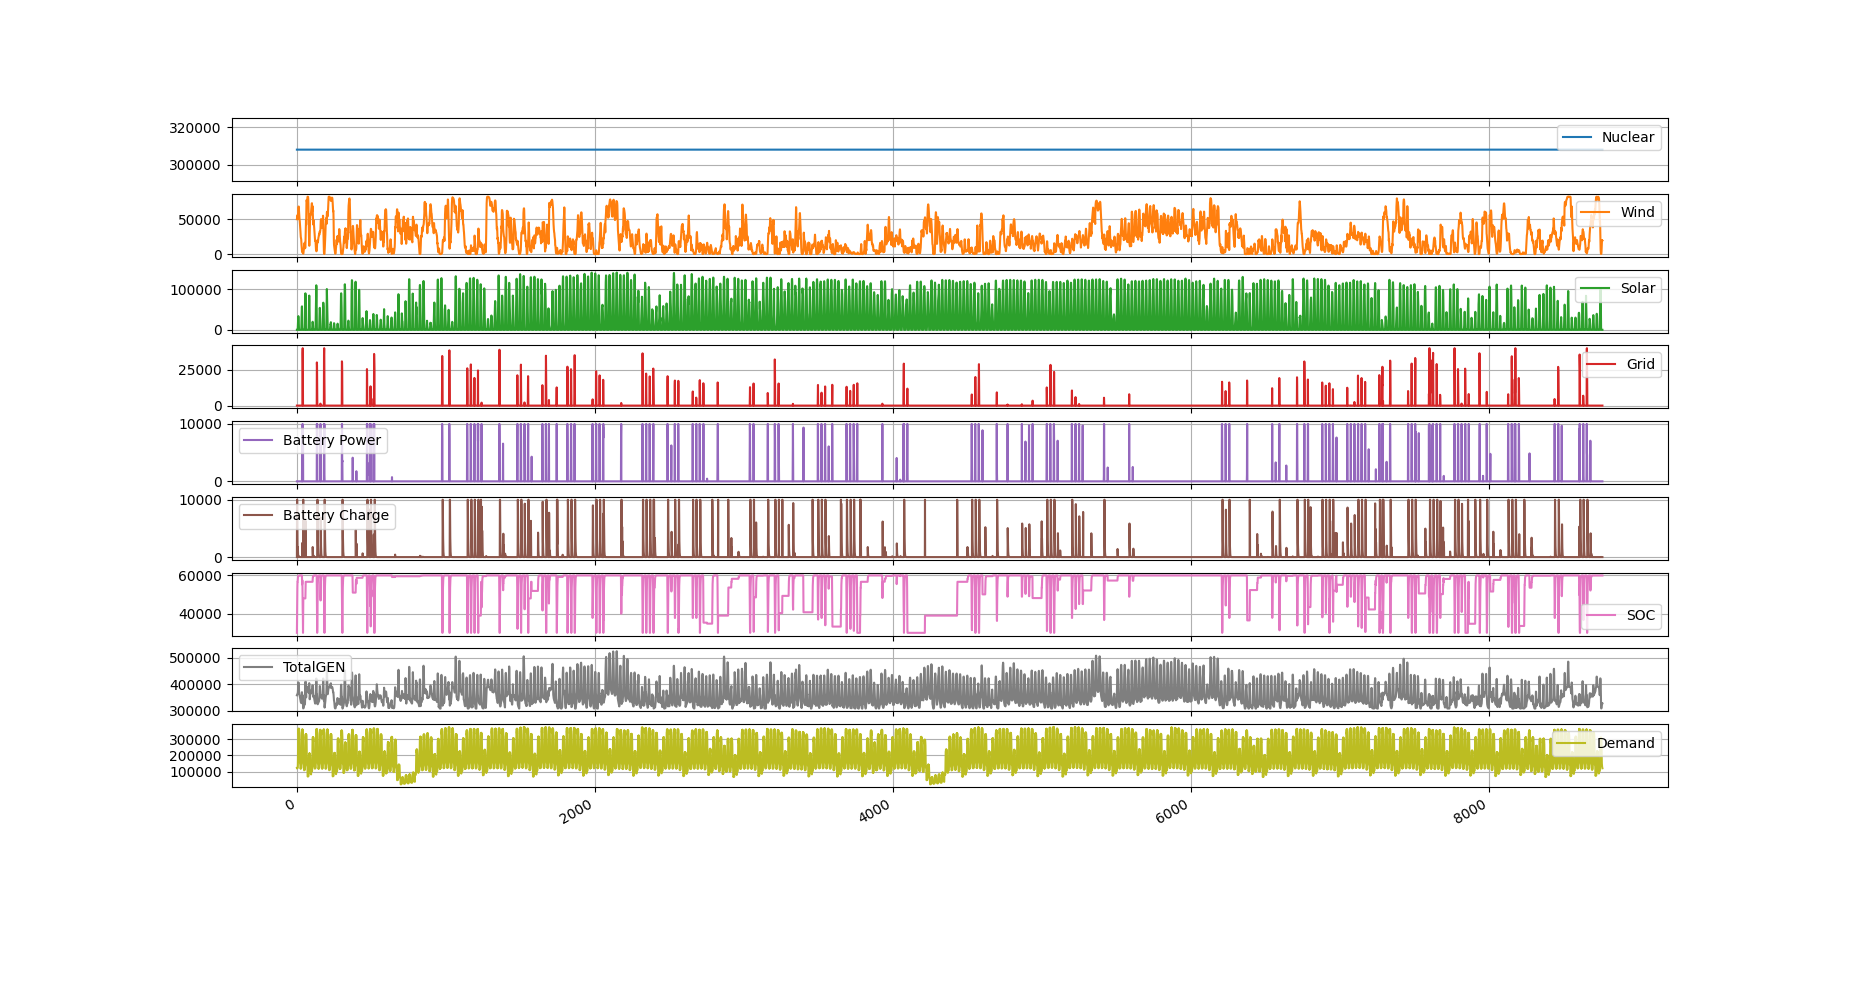
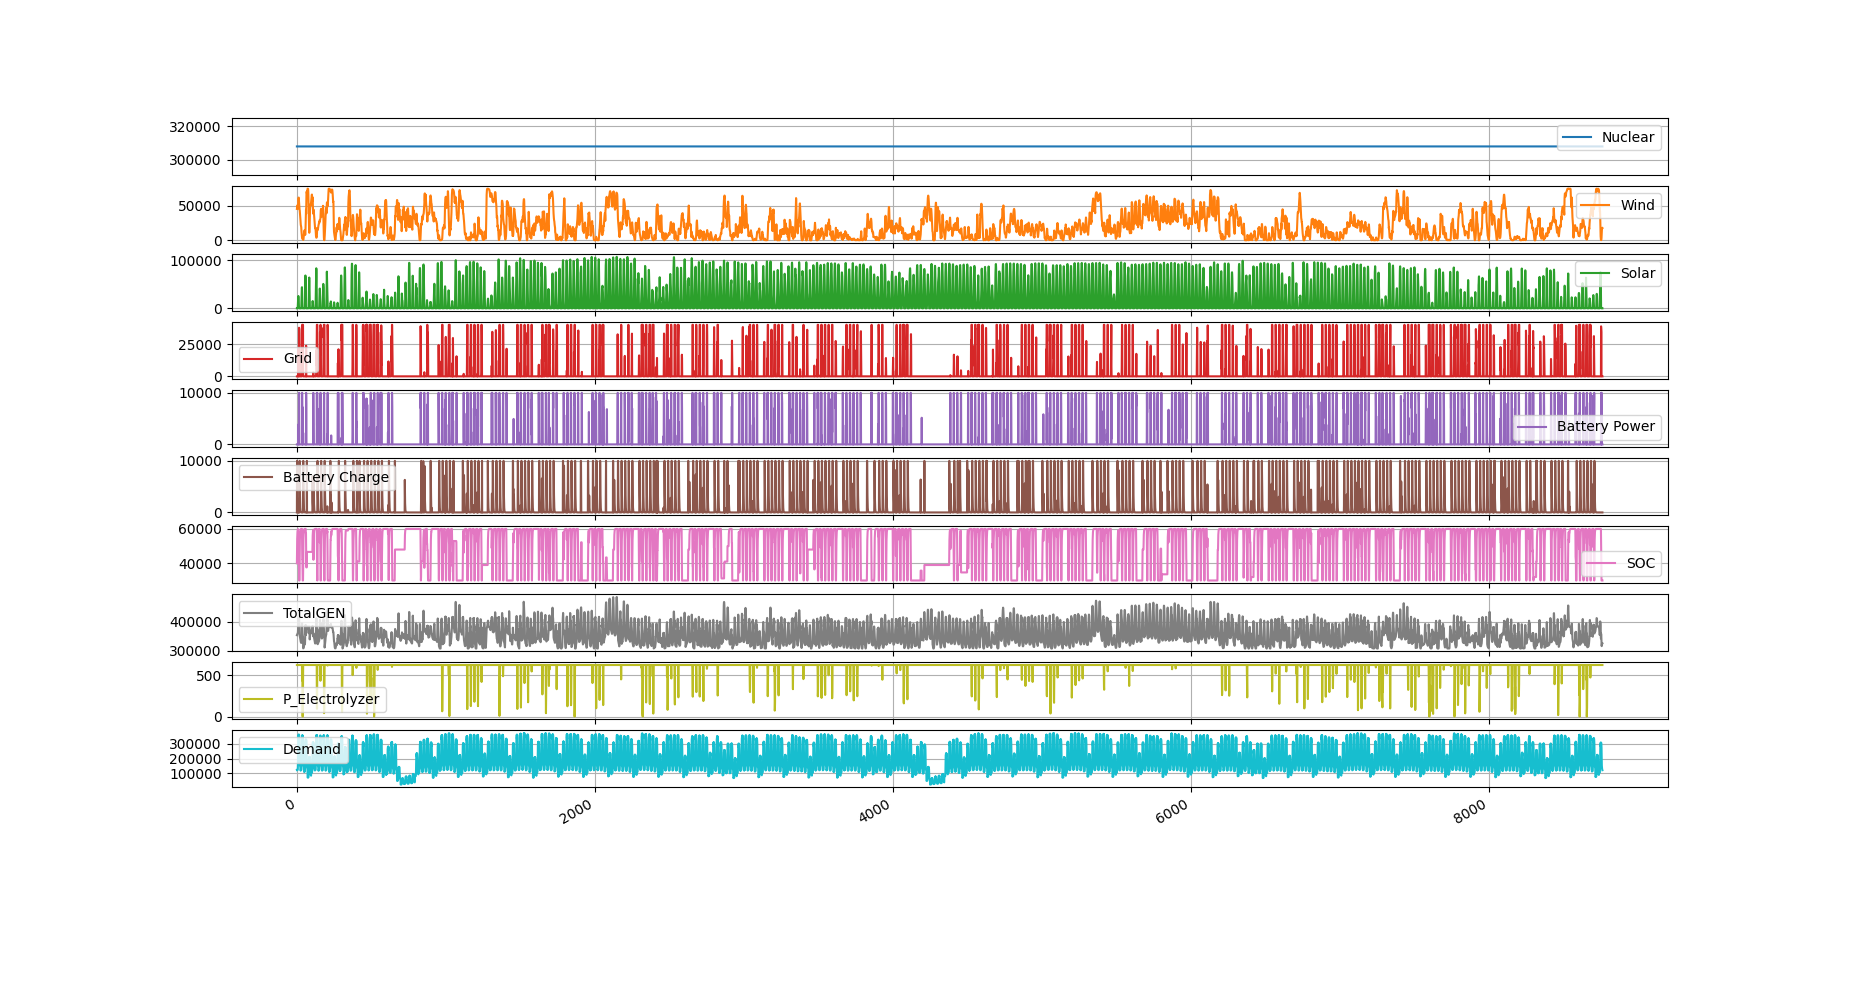
Version 1.1

Changed region(s): [[0.0923, 0.122, 0.8921, 0.7927]]

diff --git a/Sizing/optimize.py b/Sizing/optimize.py
@@ -36,7 +36,7 @@ def main(args):
 
     fcprice = 0.2
 
-    h2price = 8  
+    h2price = 12  
 
 
     profile = Data()
@@ -96,11 +96,11 @@ def main(args):
         model.chargeP = pe.Var(model.T, initialize=0, domain=pe.NonNegativeReals)
         model.dischargeP = pe.Var(model.T, initialize=0, domain=pe.NonNegativeReals)
 
-    model.n_smr = pe.Var(within=pe.PositiveIntegers, initialize = 1, bounds=[1, 10])
-    model.n_wind = pe.Var(within=pe.PositiveIntegers,  initialize = 10, bounds=[1, 60])
+    model.n_smr = pe.Var(within=pe.PositiveIntegers, initialize = 1, bounds=[1, 5])
+    model.n_wind = pe.Var(within=pe.PositiveIntegers,  initialize = 10, bounds=[1, 100])
     model.n_solar = pe.Var(within=pe.PositiveIntegers, initialize = 1000, bounds=[100, 200000])
 
-    model.n_h2sys = pe.Param(initialize=10)
+    model.n_h2sys = pe.Param(initialize=100)
 
     gridpower = 40000
     model.Pgrid = pe.Var(model.T, initialize=0, bounds=[0,gridpower])
@@ -173,10 +173,12 @@ def main(args):
 
     if args.hydrogen:
         hydrogen_gen = [pe.value(model.P_fcell[t]) for t in model.P_fcell]
-        electrolyzer = [pe.value(model.M_electrolyzer[t]) for t in model.M_electrolyzer]
+        m_electrolyzer = [pe.value(model.M_electrolyzer[t]) for t in model.M_electrolyzer]
+        p_electrolyzer = [pe.value(model.M_electrolyzer[t]) for t in model.P_electrolyzer]
         tank = [pe.value(model.SOP[t]) for t in model.SOP]
         dict['Hydrogen'] = hydrogen_gen
-        dict['Electrolyzer'] = electrolyzer
+        dict['M_Electrolyzer'] = m_electrolyzer
+        dict['P_Electrolyzer'] = p_electrolyzer
         dict['SOP'] = tank
     if args.battery:
         batteryDischarge = [pe.value(model.dischargeP[t]) for t in model.dischargeP]
@@ -189,10 +191,10 @@ def main(args):
     df = pd.DataFrame(dict)
 
     lcoe_sys = (smr.lcoe * sum(nuclear_gen) + wind.lcoe * sum(wind_gen) + solar.lcoe * sum(solar_gen) + gridPrice * sum(grid_gen) 
-        + sum(battery_gen) - h2price * sum(electrolyzer)) / sum(power_gen)
+        + sum(battery_gen) - h2price * sum(m_electrolyzer)) / sum(power_gen)
 
     print("System LCOE: %5.2f $/kW" % (1e3* lcoe_sys))
-    print("Total Hydrogen generated: %5.2f kg" % (sum(electrolyzer)))
+    print("Total Hydrogen generated: %5.2f kg" % (sum(m_electrolyzer)))
 
     # Show graphs
     if args.horizon and args.battery:
@@ -218,14 +220,14 @@ def main(args):
             patches, texts, autotexts = ax.pie([sum(nuclear_gen), sum(wind_gen), sum(solar_gen), sum(grid_gen), sum(battery_gen)],  
                 labels=labels, autopct='%1.1f%%', labeldistance=1.2, explode=explode)
         elif args.hydrogen and args.battery:
-            subplots = df[['Nuclear','Wind','Solar','Grid', 'Battery Power','Battery Charge', 'SOC','TotalGEN','Demand']].plot(figsize=(12, 4), 
+            subplots = df[['Nuclear','Wind','Solar','Grid', 'Battery Power','Battery Charge', 'SOC','TotalGEN','P_Electrolyzer','Demand']].plot(figsize=(12, 4), 
                 subplots=True, grid=True)
             fig, ax = plt.subplots()
             labels = 'Nuclear','Wind', 'Solar', 'Grid', 'Battery'
             explode = [0, 0, 0, 0.1, 0.2]
             patches, texts, autotexts = ax.pie([sum(nuclear_gen), sum(wind_gen), sum(solar_gen), sum(grid_gen), sum(battery_gen)],  
                 labels=labels, autopct='%1.1f%%', labeldistance=1.2, explode=explode)
-            df[['Hydrogen', 'Electrolyzer','SOP']].plot(figsize=(12, 4), subplots=True)
+            df[['Hydrogen', 'M_Electrolyzer','SOP']].plot(figsize=(12, 4), subplots=True)
         elif args.hydrogen and not args.battery:
             pass
 

diff --git a/Sizing/components.py b/Sizing/components.py
@@ -9,7 +9,7 @@ class Battery():
         self.MAX_BATTERY_CAPACITY = 60e3 # kWh
         self.MAX_BATTERY_POWER = 20e3 # kW
         self.MIN_BATTERY_POWER = 0 #10e5
-        self.INITIAL_CAPACITY = 30e3 # Default full initial capacity
+        self.INITIAL_CAPACITY = 40e3 # Default full initial capacity
         self.EFFICIENCY = 0.9
 
     def constraints(self, model, period):
@@ -81,8 +81,8 @@ class Hydrogen():
         self.TANK_VOLUME = 4 # m3
         self.R_H2 = 4.124 # kJ/kgK
         self.TEMP = 300 # K
-        self.HHV = 141.80e3 # kJ/kg
-        self.LHV = 120e3 # kJ/kg
+        self.HHV = 141.80e3/3600 # kW/kg
+        self.LHV = 120e3/3600 # kW/kg
 
     def mdot(self, Pe):
         """The model assumes energy conversion based on a solid 
